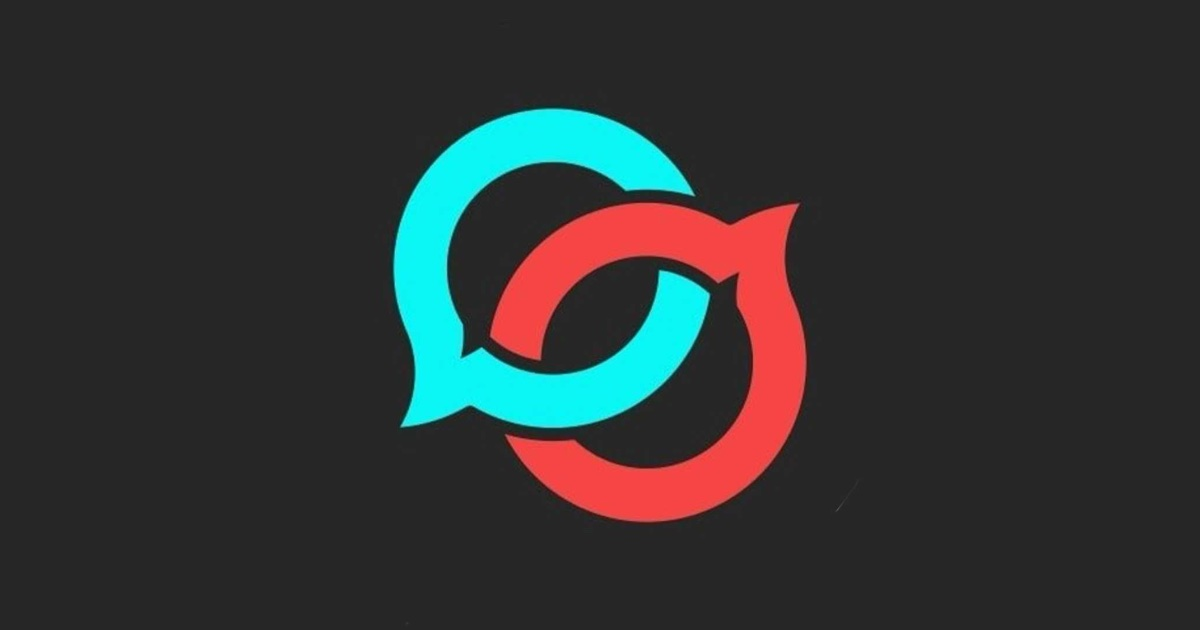
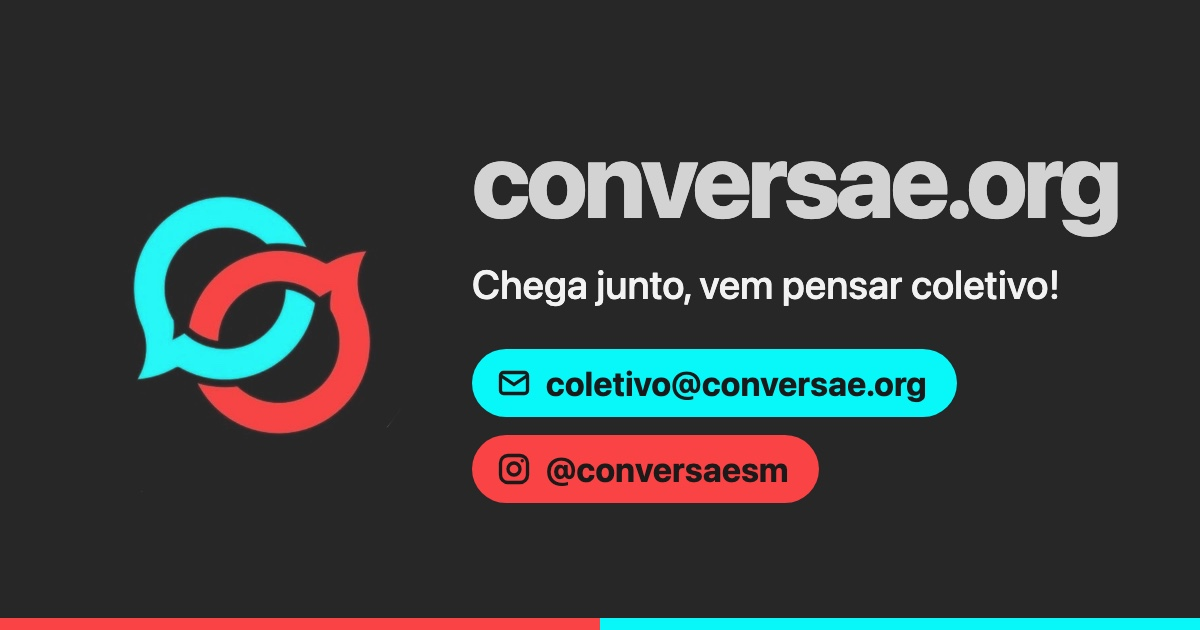
adiciona cartao de apresentação

Changed region(s): [[0.0925, 0.1508, 0.9558, 0.8444], [0.0, 0.9651, 1.0, 1.0]]

diff --git a/index.html b/index.html
@@ -20,7 +20,7 @@
   <meta property="og:image" content="https://conversae.org/og.jpg">
   <meta property="og:image:width" content="1200">
   <meta property="og:image:height" content="630">
-  <meta property="og:image:alt" content="Logo do Conversae: dois balões de conversa entrelaçados, um ciano e um vermelho.">
+  <meta property="og:image:alt" content="Logo do Conversae ao lado do texto: conversae.org. Chega junto, vem pensar coletivo! e-mail coletivo@conversae.org, Instagram @conversaesm.">
   <meta name="twitter:card" content="summary_large_image">
 
   <link rel="icon" href="favicon.ico" sizes="32x32">
